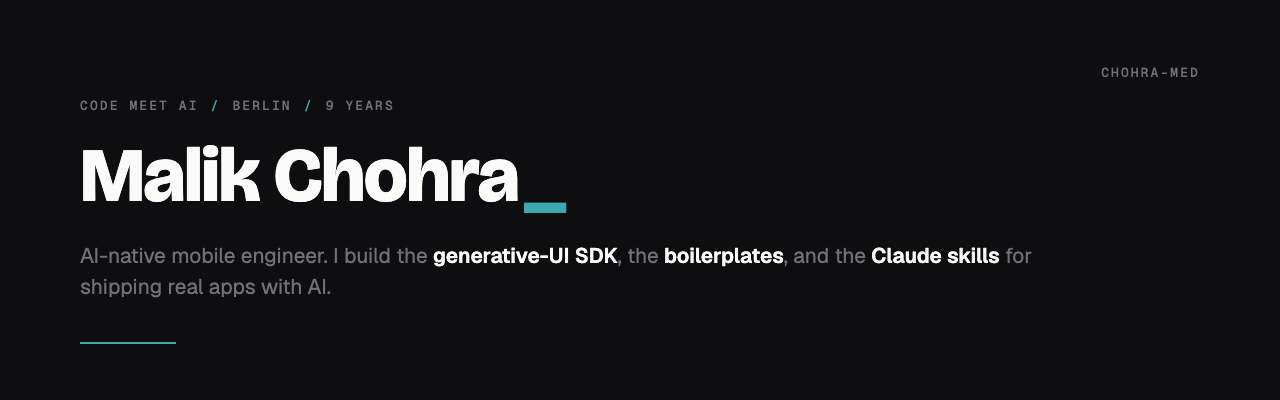
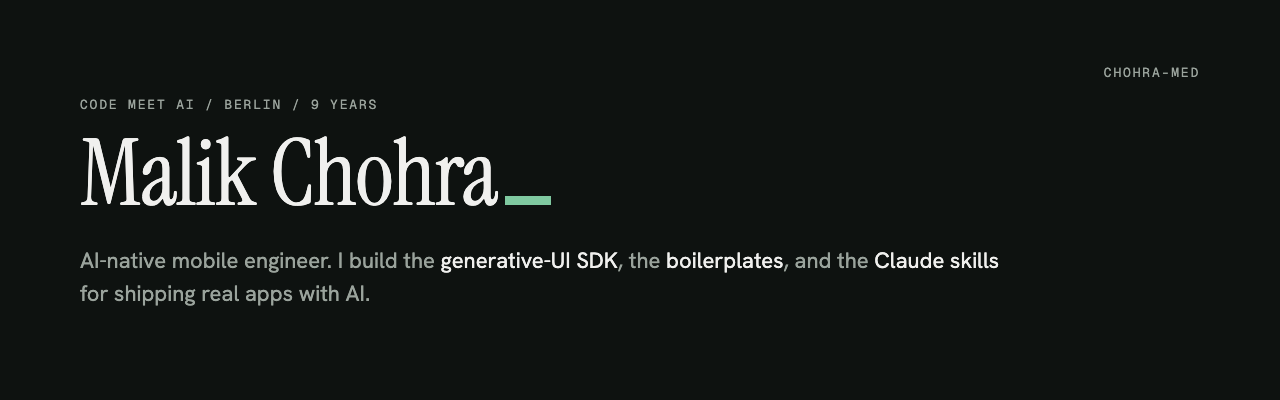
docs: Forest badges, add Second Brain and Spec Harness (#1)
* docs: forest badge colour, add Second Brain and Spec Harness, drop Colorway C line

* docs: profile banners in Forest (Forest Night and cream), same text

---------

diff --git a/README.md b/README.md
@@ -8,10 +8,10 @@
 
 <br><br>
 
-[![Newsletter](https://img.shields.io/badge/Newsletter-Code%20Meet%20AI-3BA9AE?style=flat-square&logo=substack&logoColor=white)](https://codemeetai.substack.com)
-[![Website](https://img.shields.io/badge/Web-getwireai.com-3BA9AE?style=flat-square&logo=googlechrome&logoColor=white)](https://getwireai.com)
-[![X](https://img.shields.io/badge/X-@malik__chohra-3BA9AE?style=flat-square&logo=x&logoColor=white)](https://x.com/malik_chohra)
-[![LinkedIn](https://img.shields.io/badge/LinkedIn-Malik%20Chohra-3BA9AE?style=flat-square&logo=linkedin&logoColor=white)](https://www.linkedin.com/in/malik-chohra/)
+[![Newsletter](https://img.shields.io/badge/Newsletter-Code%20Meet%20AI-1F4A35?style=flat-square&logo=substack&logoColor=white)](https://codemeetai.substack.com)
+[![Website](https://img.shields.io/badge/Web-getwireai.com-1F4A35?style=flat-square&logo=googlechrome&logoColor=white)](https://getwireai.com)
+[![X](https://img.shields.io/badge/X-@malik__chohra-1F4A35?style=flat-square&logo=x&logoColor=white)](https://x.com/malik_chohra)
+[![LinkedIn](https://img.shields.io/badge/LinkedIn-Malik%20Chohra-1F4A35?style=flat-square&logo=linkedin&logoColor=white)](https://www.linkedin.com/in/malik-chohra/)
 
 </div>
 
@@ -28,7 +28,8 @@ I write about all of it in **[Code Meet AI](https://codemeetai.substack.com)**, 
 - **[Wire AI](https://getwireai.com)** is the open-source generative UI SDK for React Native. An LLM drives real native components at runtime, Zod-validated. No WebView, no HTML.
 - **[AI Mobile Launcher](https://aimobilelauncher.com)** is a production Expo boilerplate: auth, payments, AI, and the Claude rules already wired, so you start at the interesting part.
 - **Code Meet AI**, my weekly newsletter on shipping real products with AI. Receipts, not takes.
-- **Colorway C**, the design system behind all of it, packaged so an AI can apply it directly.
+- **[Second Brain](https://casainnov.com/second-brain)** is a plain Markdown memory for one project, so Claude Code and Codex start each session knowing what the project is.
+- **[Spec Harness](https://casainnov.com/spec-harness)** is spec-driven development for AI coding agents, with a separate verifier that says PASS or FAIL.
 
 ## Open source
 
@@ -38,18 +39,20 @@ I write about all of it in **[Code Meet AI](https://codemeetai.substack.com)**, 
 | **[expo_boilerplate](https://github.com/chohra-med/expo_boilerplate)** | AI-first Expo starter. Feature-first, TypeScript, auth, i18n, theming, Cursor + Claude rules. |
 | **[mcp-for-your-app](https://github.com/chohra-med/mcp-for-your-app)** | A guide + two Claude skills: audit whether an AI can see your app's funnel, then build the MCP that makes it reachable. |
 | **[claude_design_skill](https://github.com/chohra-med/claude_design_skill)** | A Claude skill that front-loads design tokens so AI-generated UI stays on-brand, then verifies it. |
-| **[colorway-c-brand](https://github.com/chohra-med/colorway-c-brand)** | The Colorway C design system as an agent-readable skill: palette, type, motion, rules. |
+| **[colorway-c-brand](https://github.com/chohra-med/colorway-c-brand)** | The original Colorway C design system as an agent-readable skill, kept as a frozen showcase. |
+| **[spec-harness-oss](https://github.com/chohra-med/spec-harness-oss)** | Spec-driven development for AI coding agents, with a separate verifier that says PASS or FAIL. |
+| **[second-brain-starter](https://github.com/chohra-med/second-brain-starter)** | A free Markdown memory for one project, with safe setup for Claude Code and Codex. |
 
 <div align="center">
 
 <br>
 
-![React Native](https://img.shields.io/badge/React_Native-3BA9AE?style=flat-square&logo=react&logoColor=white)
-![Expo](https://img.shields.io/badge/Expo-3BA9AE?style=flat-square&logo=expo&logoColor=white)
-![TypeScript](https://img.shields.io/badge/TypeScript-3BA9AE?style=flat-square&logo=typescript&logoColor=white)
-![Next.js](https://img.shields.io/badge/Next.js-3BA9AE?style=flat-square&logo=nextdotjs&logoColor=white)
-![Node.js](https://img.shields.io/badge/Node.js-3BA9AE?style=flat-square&logo=nodedotjs&logoColor=white)
-![Claude](https://img.shields.io/badge/Claude-3BA9AE?style=flat-square&logo=anthropic&logoColor=white)
+![React Native](https://img.shields.io/badge/React_Native-1F4A35?style=flat-square&logo=react&logoColor=white)
+![Expo](https://img.shields.io/badge/Expo-1F4A35?style=flat-square&logo=expo&logoColor=white)
+![TypeScript](https://img.shields.io/badge/TypeScript-1F4A35?style=flat-square&logo=typescript&logoColor=white)
+![Next.js](https://img.shields.io/badge/Next.js-1F4A35?style=flat-square&logo=nextdotjs&logoColor=white)
+![Node.js](https://img.shields.io/badge/Node.js-1F4A35?style=flat-square&logo=nodedotjs&logoColor=white)
+![Claude](https://img.shields.io/badge/Claude-1F4A35?style=flat-square&logo=anthropic&logoColor=white)
 
 <br><br>
 
